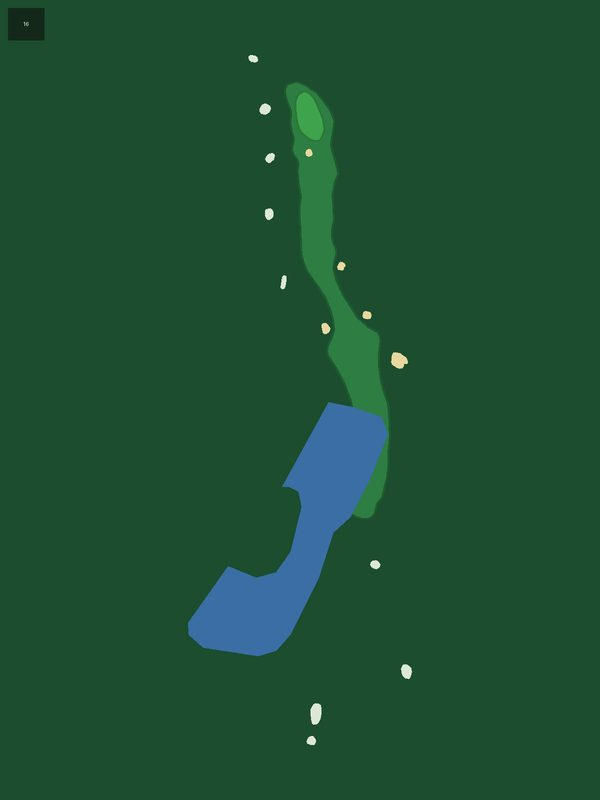
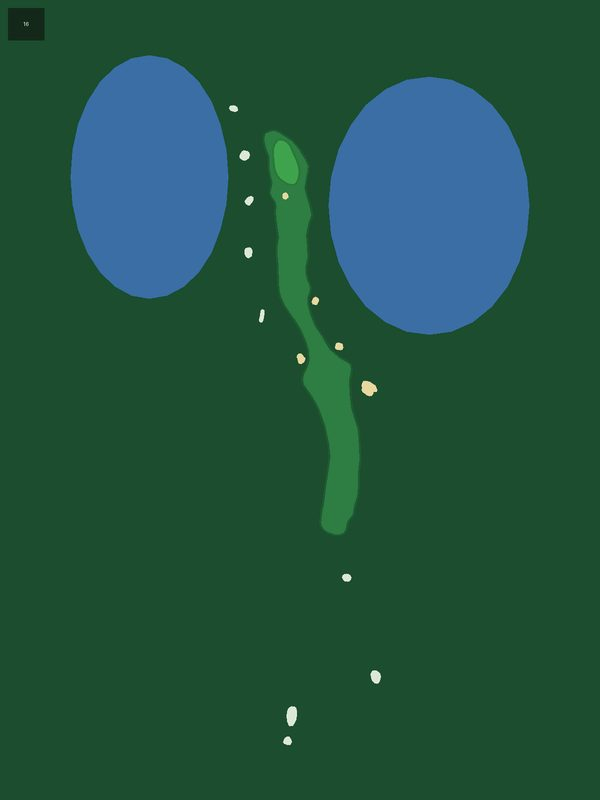
Lofoten Links: re-render H5 (lake no longer swallows hole), H6 (remove adjacent-hole bleed), H16 (water flanks green); re-register tees/pins 5/6/16

diff --git a/app/lib/widgets/hole_map_manifest.dart b/app/lib/widgets/hole_map_manifest.dart
@@ -156,8 +156,8 @@ const holeMapManifest = <String, Map<int, HoleMapAsset>>{
     2: HoleMapAsset(par: 3, map: 'assets/hole_maps/lofoten-links/2.jpg', mask: 'assets/hole_maps/lofoten-links/2_mask.png', tee: Offset(0.590, 0.722), pin: Offset(0.591, 0.141), source: 'osm'),
     3: HoleMapAsset(par: 4, map: 'assets/hole_maps/lofoten-links/3.jpg', mask: 'assets/hole_maps/lofoten-links/3_mask.png', tee: Offset(0.257, 0.931), pin: Offset(0.258, 0.111), source: 'osm'),
     4: HoleMapAsset(par: 4, map: 'assets/hole_maps/lofoten-links/4.jpg', mask: 'assets/hole_maps/lofoten-links/4_mask.png', tee: Offset(0.581, 0.926), pin: Offset(0.581, 0.223), source: 'osm'),
-    5: HoleMapAsset(par: 4, map: 'assets/hole_maps/lofoten-links/5.jpg', mask: 'assets/hole_maps/lofoten-links/5_mask.png', tee: Offset(0.493, 0.467), pin: Offset(0.494, 0.275), source: 'osm'),
-    6: HoleMapAsset(par: 3, map: 'assets/hole_maps/lofoten-links/6.jpg', mask: 'assets/hole_maps/lofoten-links/6_mask.png', tee: Offset(0.490, 0.721), pin: Offset(0.504, 0.129), source: 'osm'),
+    5: HoleMapAsset(par: 4, map: 'assets/hole_maps/lofoten-links/5.jpg', mask: 'assets/hole_maps/lofoten-links/5_mask.png', tee: Offset(0.654, 0.820), pin: Offset(0.656, 0.308), source: 'osm'),
+    6: HoleMapAsset(par: 3, map: 'assets/hole_maps/lofoten-links/6.jpg', mask: 'assets/hole_maps/lofoten-links/6_mask.png', tee: Offset(0.590, 0.919), pin: Offset(0.504, 0.129), source: 'osm'),
     7: HoleMapAsset(par: 5, map: 'assets/hole_maps/lofoten-links/7.jpg', mask: 'assets/hole_maps/lofoten-links/7_mask.png', tee: Offset(0.403, 0.925), pin: Offset(0.399, 0.142), source: 'osm'),
     8: HoleMapAsset(par: 5, map: 'assets/hole_maps/lofoten-links/8.jpg', mask: 'assets/hole_maps/lofoten-links/8_mask.png', tee: Offset(0.554, 0.928), pin: Offset(0.556, 0.157), source: 'osm'),
     9: HoleMapAsset(par: 4, map: 'assets/hole_maps/lofoten-links/9.jpg', mask: 'assets/hole_maps/lofoten-links/9_mask.png', tee: Offset(0.528, 0.927), pin: Offset(0.528, 0.116), source: 'osm'),
@@ -167,7 +167,7 @@ const holeMapManifest = <String, Map<int, HoleMapAsset>>{
     13: HoleMapAsset(par: 5, map: 'assets/hole_maps/lofoten-links/13.jpg', mask: 'assets/hole_maps/lofoten-links/13_mask.png', tee: Offset(0.471, 0.920), pin: Offset(0.472, 0.134), source: 'osm'),
     14: HoleMapAsset(par: 4, map: 'assets/hole_maps/lofoten-links/14.jpg', mask: 'assets/hole_maps/lofoten-links/14_mask.png', tee: Offset(0.519, 0.924), pin: Offset(0.521, 0.162), source: 'osm'),
     15: HoleMapAsset(par: 4, map: 'assets/hole_maps/lofoten-links/15.jpg', mask: 'assets/hole_maps/lofoten-links/15_mask.png', tee: Offset(0.499, 0.923), pin: Offset(0.498, 0.307), source: 'osm'),
-    16: HoleMapAsset(par: 4, map: 'assets/hole_maps/lofoten-links/16.jpg', mask: 'assets/hole_maps/lofoten-links/16_mask.png', tee: Offset(0.519, 0.926), pin: Offset(0.516, 0.146), source: 'osm'),
+    16: HoleMapAsset(par: 4, map: 'assets/hole_maps/lofoten-links/16.jpg', mask: 'assets/hole_maps/lofoten-links/16_mask.png', tee: Offset(0.479, 0.927), pin: Offset(0.476, 0.203), source: 'osm'),
     17: HoleMapAsset(par: 3, map: 'assets/hole_maps/lofoten-links/17.jpg', mask: 'assets/hole_maps/lofoten-links/17_mask.png', tee: Offset(0.663, 0.919), pin: Offset(0.672, 0.161), source: 'osm'),
     18: HoleMapAsset(par: 4, map: 'assets/hole_maps/lofoten-links/18.jpg', mask: 'assets/hole_maps/lofoten-links/18_mask.png', tee: Offset(0.572, 0.924), pin: Offset(0.573, 0.191), source: 'osm'),
   },
